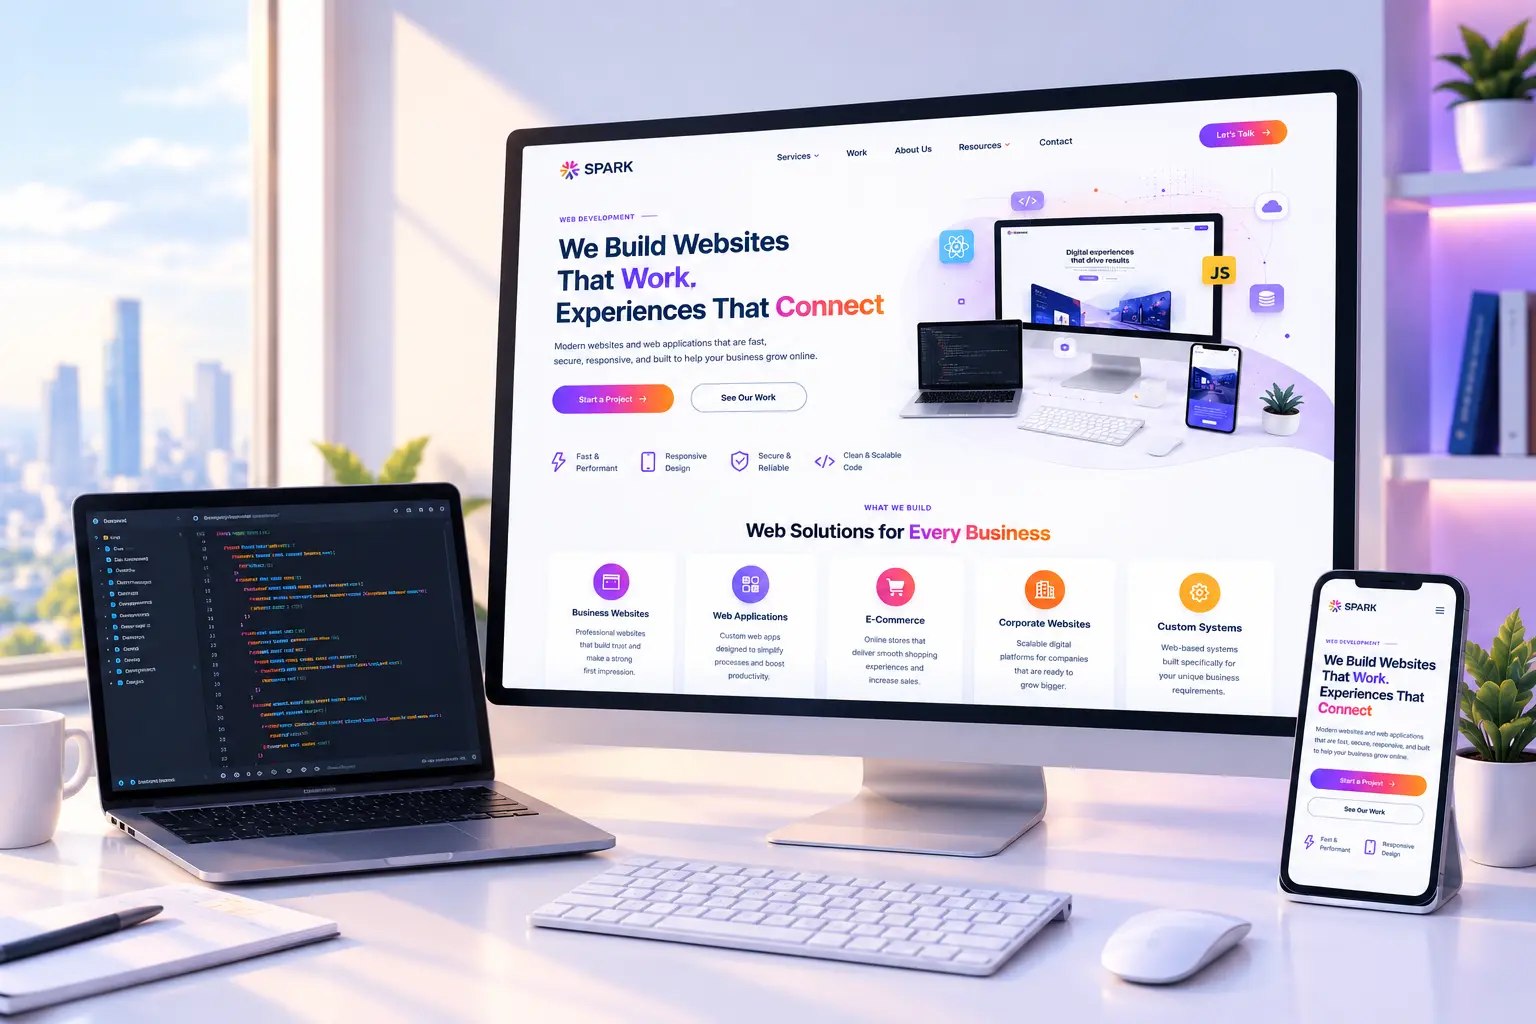
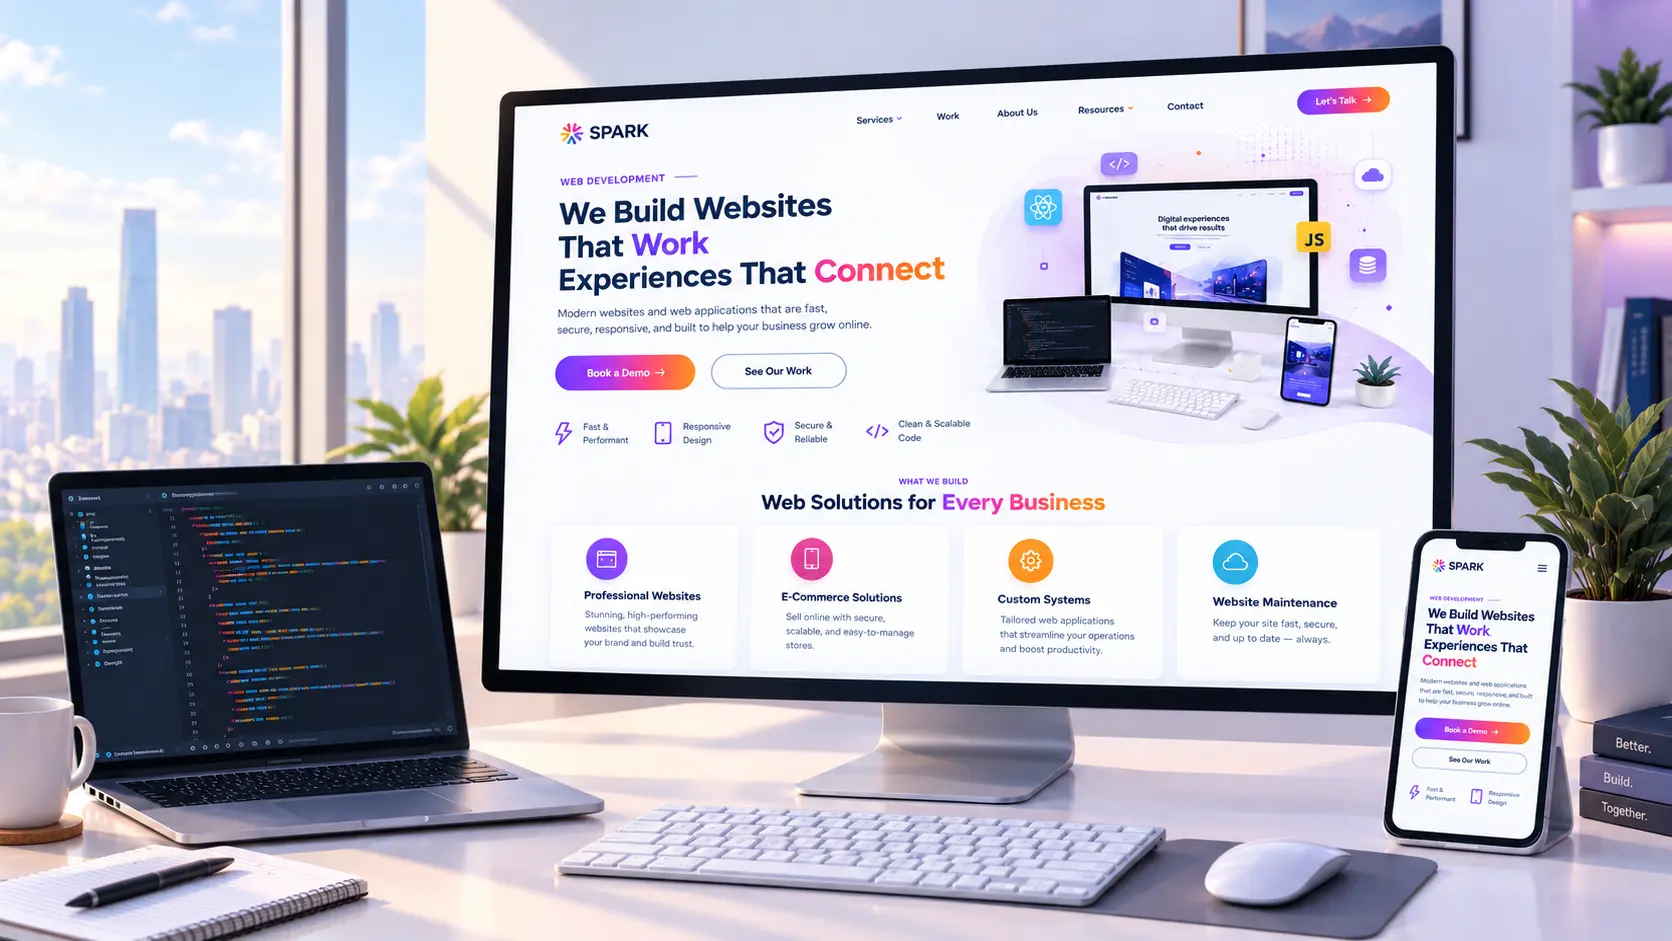
Remove::MaterialDesign

diff --git a/src/pages/CompanyPortfolio/CompanyPortfolio.tsx b/src/pages/CompanyPortfolio/CompanyPortfolio.tsx
@@ -1,6 +1,6 @@
 import { useState } from "react";
 
-import { Tabs } from "@material-tailwind/react";
+import { motion } from "motion/react";
 import { TbArrowNarrowRight } from "react-icons/tb";
 
 import { Wrapper, Text, Chip,
@@ -62,24 +62,33 @@ function CompanyPortfolio() {
                         <div className="w-full md:w-fit bg-white md:rounded-full shadow-md overflow-hidden absolute">
                             <div className="px-4 py-2 md:p-2 overflow-x-auto [scrollbar-width:none] [&::-webkit-scrollbar]:hidden">
 
-                            <Tabs defaultValue="All Projects" value={activeTab} onValueChange={setActiveTab}>
-                                <Tabs.List className="gap-2">
+                            <div className="flex w-max gap-2">
                                     {tabs.map((tab) => (
-                                        <Tabs.Trigger key={tab} value={tab} className={`
-                                            whitespace-nowrap cursor-pointer h-10 px-4 
-                                            rounded-full text-xs ease-out z-10 transition-all duration-300 ease-in
-                                            shadow-sm 
-                                            ${
-                                                activeTab === tab
-                                                  ? "text-white"
-                                                  : "dark:text-black"
-                                            }`}>
-                                            {tab}
-                                        </Tabs.Trigger>
+                                        <Button
+                                            key={tab}
+                                            type="button"
+                                            onClick={() => setActiveTab(tab)}
+                                            variant="ghost"
+                                            size="sm"
+                                            className={`
+                                                relative whitespace-nowrap cursor-pointer h-10 px-4 
+                                                text-xs shadow-sm
+                                                ${
+                                                    activeTab === tab
+                                                      ? "text-white"
+                                                      : "text-dark hover:bg-gray-100 "
+                                                }`}>
+                                            {activeTab === tab && (
+                                                <motion.div
+                                                    layoutId="tab-indicator"
+                                                    className="absolute inset-0 rounded-full bg-gradient shadow-sm"
+                                                    transition={{ type: "spring", stiffness: 300, damping: 30 }}
+                                                />
+                                            )}
+                                            <span className="relative z-10">{tab}</span>
+                                        </Button>
                                     ))}
-                                    <Tabs.TriggerIndicator className="rounded-full bg-gradient opacity-80 overflow-hidden"  />
-                                </Tabs.List>
-                            </Tabs>
+                                </div>
                             </div>
                         </div>
                     </div>

diff --git a/src/components/Image.tsx b/src/components/Image.tsx
@@ -33,7 +33,11 @@ export default function Image({
 
     useEffect(() => {
         setLoaded(false);
-        setError(false);
+        if (!src) {
+            setError(true);
+        } else {
+            setError(false);
+        }
     }, [src]);
 
     const isBreakout =
@@ -58,39 +62,34 @@ export default function Image({
                 </div>
             )}
 
-            <img
-                {...props}
-                src={src}
-                alt={alt}
-                decoding={decoding}
-                draggable={draggable}
-                loading={loading}
-                onLoad={(e) => {
-                    setLoaded(true);
-                    onLoad?.(e);
-                }}
-                onError={(e) => {
-                    setError(true);
-                    onError?.(e);
-                }}
-                onContextMenu={(e) => {
-                    e.preventDefault();
-                    onContextMenu?.(e);
-                }}
-                style={{
-                    opacity: loaded ? 1 : 0,
-                    transition: "opacity 200ms ease",
-                    ...style,
-                }}
-                ref={(node) => {
-                    if (node) {
-                        node.setAttribute(
-                            "fetchpriority",
-                            fetchPriority
-                        );
-                    }
-                }}
-            />
+            {src && (
+                <img
+                    {...props}
+                    src={src}
+                    alt={alt}
+                    decoding={decoding}
+                    draggable={draggable}
+                    loading={loading}
+                    fetchpriority={fetchPriority}
+                    onLoad={(e) => {
+                        setLoaded(true);
+                        onLoad?.(e);
+                    }}
+                    onError={(e) => {
+                        setError(true);
+                        onError?.(e);
+                    }}
+                    onContextMenu={(e) => {
+                        e.preventDefault();
+                        onContextMenu?.(e);
+                    }}
+                    style={{
+                        opacity: loaded ? 1 : 0,
+                        transition: "opacity 200ms ease",
+                        ...style,
+                    }}
+                />
+            )}
 
             {error && (
                 <div className="absolute inset-0 flex items-center justify-center bg-gray-100">

diff --git a/src/pages/WebDevelopment/Hero/Hero.tsx b/src/pages/WebDevelopment/Hero/Hero.tsx
@@ -1,8 +1,7 @@
-import { FiArrowRight } from "react-icons/fi";
-import { BiMessageSquareDots } from "react-icons/bi";
 
-import { Grid, Text, Chip, Button, Icon, Image } from "@/components";
+import { Grid, Text, Chip, Image } from "@/components";
 import HelpButton from "./HelpButton";
+import FeatureHighlights from "./FeatureHighlights";
 
 import { HeroBgWebp } from "@/assets/WebDevelopment";
 
@@ -16,7 +15,7 @@ function Hero() {
                     alt="Hero background"
                     loading="eager"
                     fetchPriority="high"
-                    className="absolute -top-40 h-[580px] right-0 object-cover -z-10 rounded-bl-[100%]" />
+                    className="absolute -top-40 h-[580px] right-0 object-cover -z-10 rounded-bl-[100%] blur-md sm:blur-none" />
                 
                 <div
                     className="
@@ -32,14 +31,28 @@ function Hero() {
 
                 <Grid.VStack gap={4}>
                     <Text variant="h1" className="text-3xl font-bold tracking-tight sm:text-4xl lg:text-4xl">
-                        Websites That Work <br />
-                        as Hard as <span className="text-gradient">You Do</span>.
+                        We Build Websites <br />
+                        That <span className="text-primary">Work</span> <br /> 
+                        Experiences That <span className="text-gradient">Connect</span>
                     </Text>
                     <Text variant="bodySmall" className="mb-4 block leading-6 max-w-[400px]">
-                        We design and build fast, secure, and SEO-ready websites and
-                        web applications that help your business grow online.
+                        Modern websites and web applications that are fast,
+                        secure, responsive and build to help your business grow online.
                     </Text>
-                    <HelpButton />
+
+                    <div className="hidden sm:flex mb-4">
+                        <Grid.HStack gap={2}>
+                            <HelpButton />
+                        </Grid.HStack>
+                    </div>
+
+                    <div className="sm:hidden mb-4">
+                        <Grid.VStack gap={2}>
+                            <HelpButton />
+                        </Grid.VStack>
+                    </div>
+
+                    <FeatureHighlights />
                 </Grid.VStack>
             </Grid.Item>
         </Grid>

diff --git a/src/pages/WebDevelopment/Hero/HelpButton.tsx b/src/pages/WebDevelopment/Hero/HelpButton.tsx
@@ -5,25 +5,25 @@ import { Grid, Button, Icon } from "@/components";
 
 function HelpButton() {
     return (
-        <Grid.HStack gap={2}>
+        <>
             <Button
                 variant="gradient"
                 size="sm"
                 onClick={() => window.location.href = `mailto:${import.meta.env.VITE_CONTACT_EMAIL}`}
                 className="gap-1 justify-center">
-                Let's Build
+                Book a Demo
                 <Icon icon={FiArrowRight} size="sm" variant="light" />
             </Button>
 
             <Button
                 variant="outline"
                 size="sm"
-                onClick={() => window.location.href = `mailto:${import.meta.env.VITE_CONTACT_EMAIL}`}
+                onClick={() => window.location.href = `company-portfolio`}
                 className="gap-1 justify-center bg-white">
-                Talk to Our Team
+                See Our Work
                 <Icon icon={BiMessageSquareDots} size="sm" />
             </Button>
-        </Grid.HStack>
+        </>
     );
 }
 

diff --git a/src/pages/WebDevelopment/Hero/FeatureHighlights.tsx b/src/pages/WebDevelopment/Hero/FeatureHighlights.tsx
@@ -1,0 +1,45 @@
+
+import {
+    FaBolt, FaMobileAlt, 
+    FaShieldAlt, FaCode
+} from "react-icons/fa";
+
+import { Grid, Icon, Text } from "@/components";
+
+const Features = [
+    {
+        icon: FaBolt,
+        title: "Fast & Performing"
+    },
+    {
+        icon: FaMobileAlt,
+        title: "Responsive Design"
+    },
+    {
+        icon: FaShieldAlt,
+        title: "Secure & Reliable"
+    },
+    {
+        icon: FaCode,
+        title: "Clean & Scalable Code"
+    }
+];
+
+
+function FeatureHighlights()
+{
+    return (
+        <Grid cols={{ base: 12 }} className="max-w-[600px]">
+            {Features.map(({ icon, title }) => (
+                <Grid.Item span={{ base: 6, lg: 3 }} key={title}>
+                    <Grid.HStack gap={2} align="start">
+                        <Icon icon={icon} variant="primary" />
+                        <Text variant="bodySmall">{title}</Text>
+                    </Grid.HStack>
+                </Grid.Item>
+            ))}
+        </Grid> 
+    )
+}
+
+export default FeatureHighlights;

diff --git a/src/main.tsx b/src/main.tsx
@@ -9,7 +9,6 @@ import { HelmetProvider } from "react-helmet-async";
 import ErrorBoundary from "@/pages/ErrorBoundary";
 
 import { registerSW } from "virtual:pwa-register";
-import { ThemeProvider } from "@material-tailwind/react";
 import { SpeedInsights } from "@vercel/speed-insights/react";
 import { Analytics } from "@vercel/analytics/react";
 
@@ -36,11 +35,9 @@ createRoot(document.getElementById("root")).render(
     <HelmetProvider>
         <StrictMode>
             <ErrorBoundary>
-                <ThemeProvider value={{}}>
                     <SpeedInsights />
                     <Analytics />
                     <App />
-                </ThemeProvider>
             </ErrorBoundary>
         </StrictMode>
     </HelmetProvider>

diff --git a/vite.config.ts b/vite.config.ts
@@ -101,8 +101,7 @@ export default defineConfig({
       output: {
         manualChunks(id) {
           if (id.includes("node_modules")) {
-            if (id.includes("material-tailwind")) return "material-tailwind";
-            if (id.includes("react")) return "react-vendor";
+          if (id.includes("react")) return "react-vendor";
             if (id.includes("motion")) return "motion";
             if (id.includes("swiper")) return "swiper";
             if (id.includes("lenis")) return "lenis";

diff --git a/tailwind.config.js b/tailwind.config.js
@@ -1,18 +1,13 @@
-import { mtConfig } from "@material-tailwind/react";
-
 /** @type {import('tailwindcss').Config} */
 export default {
   content: [
     "./index.html",
     "./src/**/*.{js,ts,jsx,tsx}",
-    "./node_modules/@material-tailwind/react/**/*.{js,ts,jsx,tsx}",
   ],
 
   theme: {
     extend: {},
   },
 
-  plugins: [
-    mtConfig,
-  ],
+  plugins: [],
 };

diff --git a/src/components/Navigation/Navigation.tsx b/src/components/Navigation/Navigation.tsx
@@ -24,7 +24,7 @@ export default function Navigation() {
     
     return (
         <>    
-            <div className="md:container md:mx-auto w-full md:py-4">
+            <div className="md:container md:mx-auto w-full p-4">
                 
                 <div className="flex items-center justify-center z-100 relative">
                     <ul
